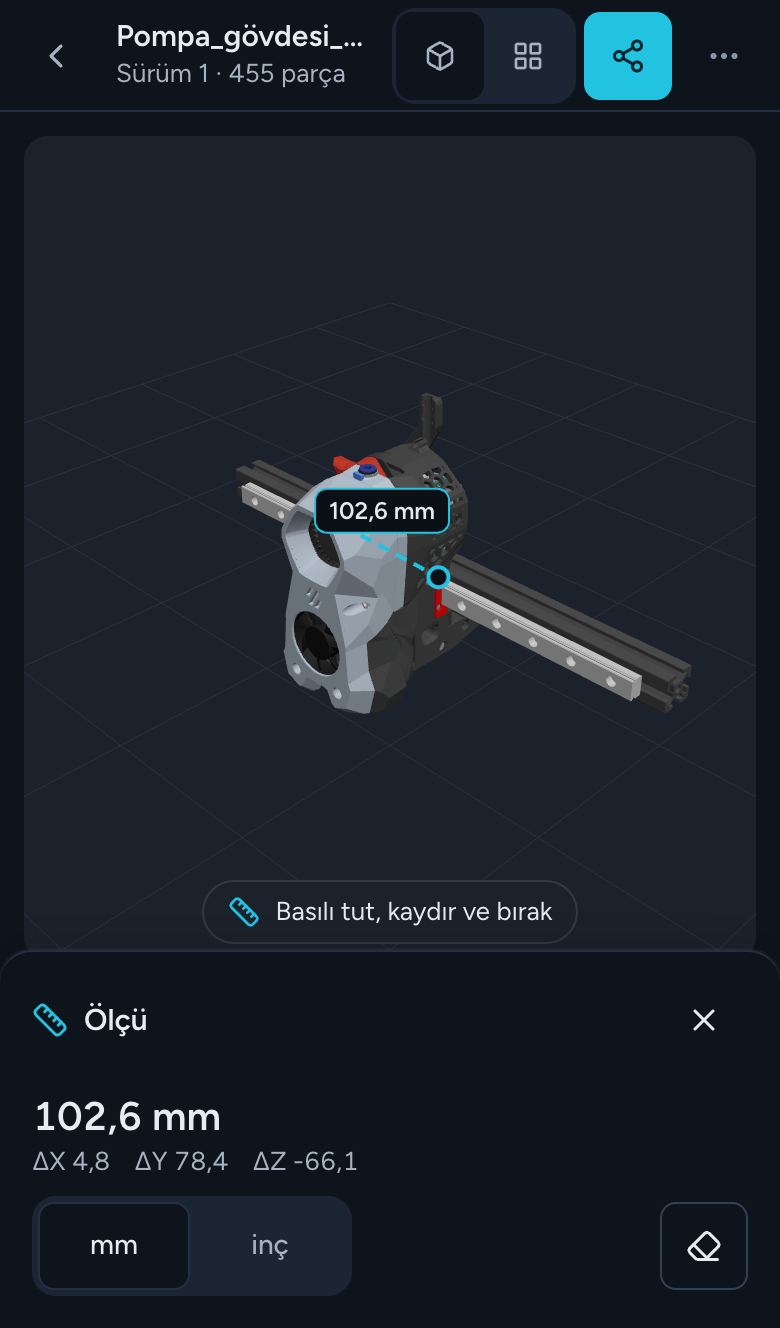
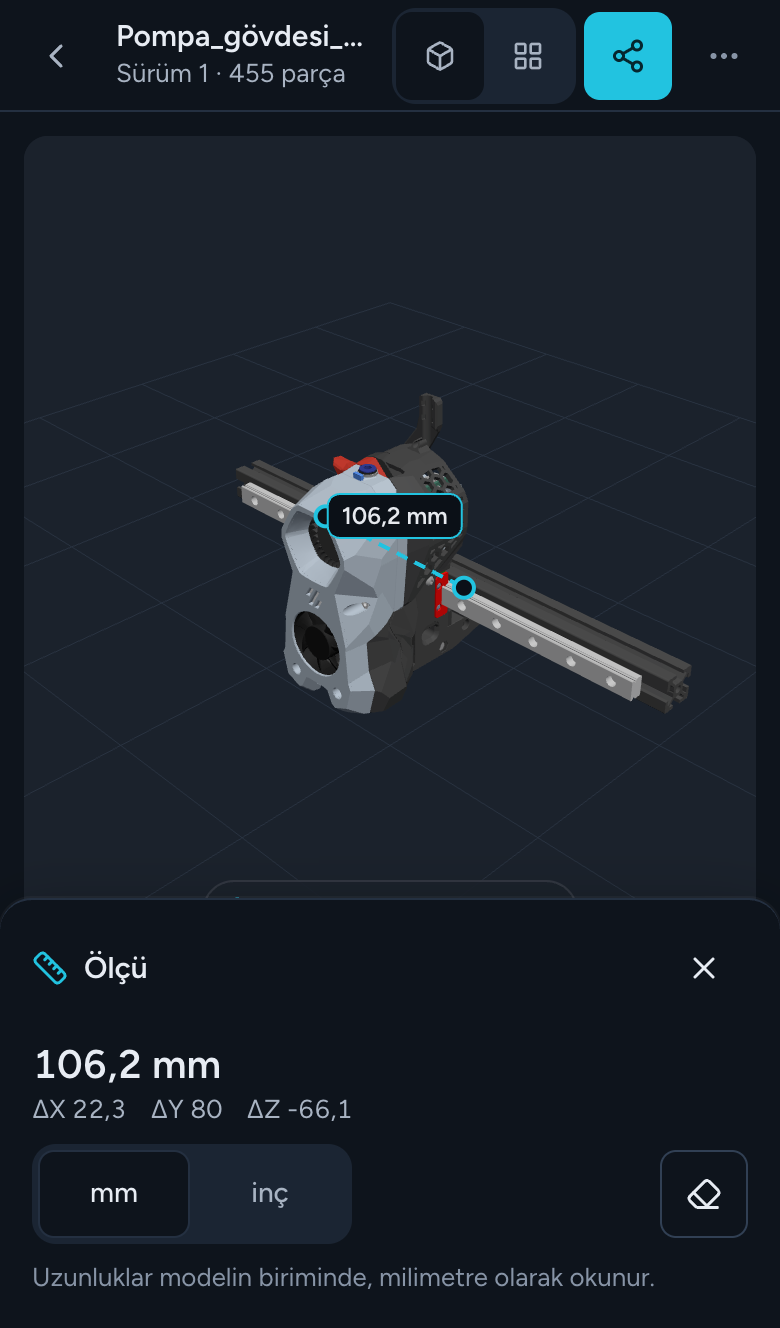
5d-1 review: no minus zero in places, refreshed section and measure screenshots, docs/11 notes

diff --git a/src/app/files/studio/units.ts b/src/app/files/studio/units.ts
@@ -13,11 +13,16 @@ const numberFormat = (locale: string, digits: number) => {
   }
   return format
 }
+/** A value that rounds to zero is shown as 0, never "-0". */
+const formatted = (value: number, locale: string, digits: number) => {
+  const step = 10 ** -digits / 2
+  return numberFormat(locale, digits).format(Math.abs(value) < step ? 0 : value)
+}
 
 /** "1.000,0 mm" / "39.37 in": one decimal in millimetres, two in inches. */
 export const formatLength = (mm: number, unit: LengthUnit, locale: string) =>
-  unit === 'mm' ? `${numberFormat(locale, 1).format(mm)} mm` : `${numberFormat(locale, 2).format(mm / MM_PER_INCH)} in`
+  unit === 'mm' ? `${formatted(mm, locale, 1)} mm` : `${formatted(mm / MM_PER_INCH, locale, 2)} in`
 
 /** A place along an axis (the section): whole millimetres, or inches with one decimal. */
 export const formatPlace = (mm: number, unit: LengthUnit, locale: string) =>
-  unit === 'mm' ? `${numberFormat(locale, 0).format(mm)} mm` : `${numberFormat(locale, 1).format(mm / MM_PER_INCH)} in`
+  unit === 'mm' ? `${formatted(mm, locale, 0)} mm` : `${formatted(mm / MM_PER_INCH, locale, 1)} in`

diff --git a/src/app/files/studio/units.test.ts b/src/app/files/studio/units.test.ts
@@ -1,0 +1,17 @@
+import { describe, expect, it } from 'vitest'
+import { formatLength, formatPlace } from './units'
+
+describe('units', () => {
+  it('formats lengths and places in the locale, mm or inches', () => {
+    expect(formatLength(1000, 'mm', 'tr')).toBe('1.000,0 mm')
+    expect(formatLength(1000, 'in', 'en')).toBe('39.37 in')
+    expect(formatPlace(640.4, 'mm', 'en')).toBe('640 mm')
+  })
+  it('never shows a minus zero (a plane a hair below the origin)', () => {
+    expect(formatPlace(-0.0001, 'mm', 'en')).toBe('0 mm')
+    expect(formatPlace(-0.3, 'mm', 'en')).toBe('0 mm')
+    expect(formatPlace(-0.6, 'mm', 'en')).toBe('-1 mm')
+    expect(formatLength(-0.01, 'mm', 'en')).toBe('0.0 mm')
+    expect(formatPlace(-0.01, 'in', 'en')).toBe('0.0 in')
+  })
+})

diff --git a/docs/11-viewer-design.md b/docs/11-viewer-design.md
@@ -557,3 +557,17 @@ Branch `rewrite-faz5d`, 27 Kasım 2026. Görev iki parçaya bölündü (görevde
 3. **Kesit tutamağı tuvale çizilir**, DOM düğmesi değil (satır içi stil yasağı); klavyeyle kesit kaydırıcıdan ayarlanır.
 4. **"Görünüme kaydet"** düğmesi kayıtlı görünümler arayüzüyle 5d-2'de gelir.
 5. **Masaüstü "Fare ve klavye" kartı ve kısayollar** (F, 0–4) eklenmedi; Escape kartı kapatır.
+
+### 5d-1 · İnceleme düzeltmeleri (PR #30)
+
+- **Kesit eksen göstergesini de kesiyordu:** `renderer.clippingPlanes` renderer'ın, sahnenin değil; `gizmo.render` çevresinde düzlemler kaydedilip `[]` yapılıyor, sonra geri konuyor.
+- **Kesit yüzünde ölçü:** kapak vurulamıyor ve parçalar çift yüzlü, bu yüzden tık arka duvarın içine düşüyordu (z = 0'da kesilen 10 mm kutuda z = −5). `studio.hits` artık ışının bütün görünür vuruşlarını (kesitsiz) veriyor; ışın düzleme ulaşmadan önce tek sayıda kesilmiş vuruş varsa ışın katının içinde, nokta ışın–düzlem kesişimi (kesit yüzü). Köşe ve kenar yapışması kesilen taraftaki köşeleri ve kenar noktalarını almıyor.
+- **Kenar noktası 3B'de:** ekrandaki oranla değil, ışına en yakın kenar noktası (`Ray.distanceSqToSegment`). Bir yüzün köşegeni "Kenar" sayılmıyor: kenarı paylaşan öteki üçgen konumla aranıyor (bölünmüş köşeler de bulunsun), 30°'den az açıyla birleşiyorsa kenar değil (görüntüleyicinin kenar çizgileriyle aynı eşik). Sonuç üçgen başına önbellekte.
+- **Büyüteç halkası:** parmakta değil, yapışılan noktanın parmaktan uzaklığı × 2,5 ile büyüteçte.
+- **İşaretçiler:** nişan alan parmağın `pointerId`'si tutuluyor; ikinci parmak nişanı ne kaydırıyor ne koyuyor. `pointercancel` nokta koymuyor, nişanı bırakıp döndürmeyi geri açıyor.
+- **Paylaşma başarısızsa** (izin yok, hedef yok) PNG indiriliyor; yalnız kapatılan paylaşım sayfası (`AbortError`) bir şey yapmıyor.
+- **Telefon ölçü sayfası** birim notunu da gösteriyor.
+- **Kesit kartı tutamağın üstünde:** kart kapladığı alanı (tuval koordinatında) araçlara bildiriyor (`section.setCovered`); tutamak kartın altındaysa düzlemin, kartın yanındaki (yer yoksa altındaki) boş alanın ortasına düşen noktasına taşınıyor, yine düzlemde olduğu için sürükleme aynı. Kart genişliği tuvale sığıyor (`max-w-[calc(100%-24px)]`), seçim çubuğu varken yüksekliği 76 px eksik.
+- **Küçükler:** yüklenemeyen araç chunk'ı önbellekte "araç yok" olarak kalmıyor (bir sonraki açılış yeniden dener), kartta hata ve "Yeniden dene"; tutamak yalnız masaüstünde ve kesit kartı açıkken (bayrak ayardan değil ekrandan türüyor); kesit aralığı yalıtılmış parçaya göre (`section.setScope`); yakalama tuvali `toBlob`'dan sonra 0 × 0; chunk gelmeden basılan "PNG indir" onu bekliyor, hata olursa bildirim; telefonda hazır olmayan düğmeye dokununca neden ipucu olarak çıkıyor; kullanılmayan `tools.desktopOnly`, `tools.section.placeValue`, `tools.measure.item` ve `snapKinds` silindi; konum "−0 mm" yerine "0 mm".
+- **Testler:** `tools.test.ts` (600 px tuval, kaydeden 2B bağlam): eksen göstergesi düzlemsiz çiziliyor, kesit yüzünde ölçü düzlemde, kesilen köşeye yapışma yok, 3B kenar noktası ve köşegen yüzey, basılı tut → büyüteç → halka yeri → bırakınca köşe, ikinci parmak ve iptal, tutamak sürüklemesi (OrbitControls duymuyor), tutamak kartın altından çıkıyor, aralık yalıtılmış parçaya göre, ekran görüntüsünde ölçüler var/yok, şeffaf zemin ve ızgara, yakalama tuvali boşalıyor, çift dokunma gerçekten sığdırıyor. `math.test.ts`: köşe/kenar süzgeci. `Tools.test.tsx`: paylaşma hatası indirir, kapatılan paylaşım indirmez, chunk gelmeden çekim bekler, başarısız çekim bildirimi, chunk hatası ve yeniden deneme, tutamak yalnız kart açıkken ve geniş ekranda, kapsam, telefon birim notu, hazır olmayan düğmenin nedeni, yeni modelde araçlar baştan (ölçü ve eksen de). `Viewer.toolsChunk.test.tsx`: başarısız chunk önbelleğe girmiyor. `units.test.ts`: "−0" yok.
+- **Ölçüm:** görüntüleyici 158,1 KB gzip (değişmedi), araç chunk'ı 5,8 KB.
